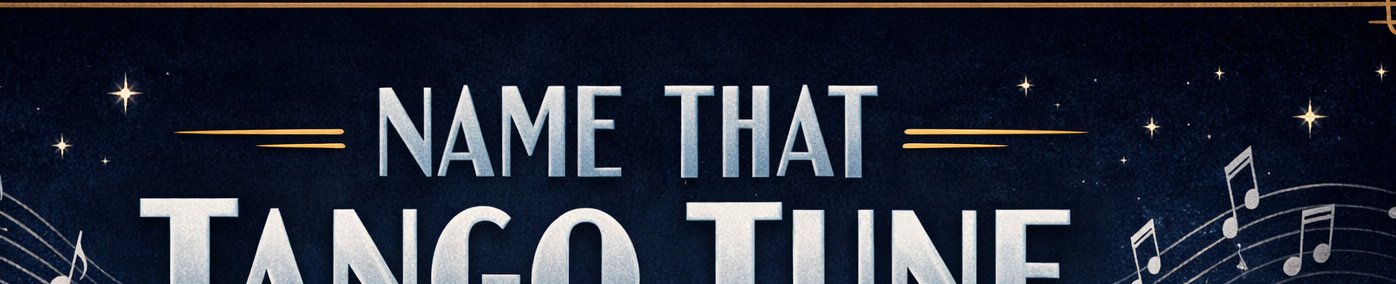
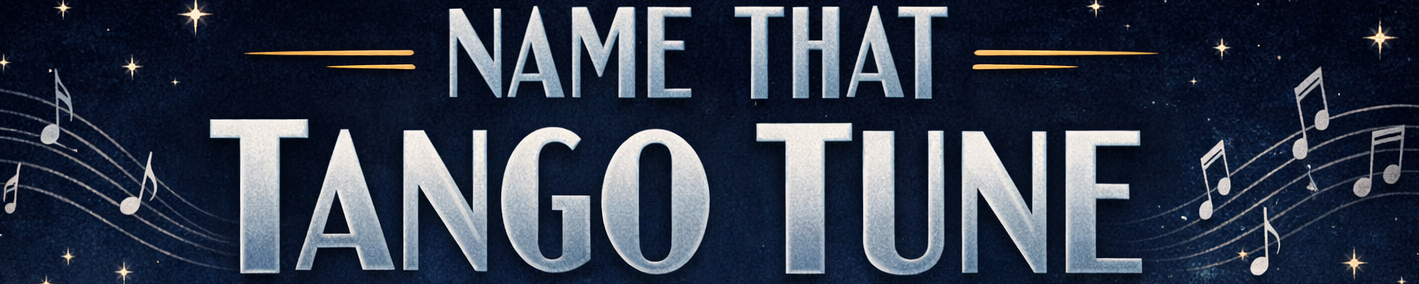
feat(welcome): Use Type1__NTTT with CSS auto-crop, update Type2__NTTT

diff --git a/tango/NTTT/src/app/games/gamehub/page.js b/tango/NTTT/src/app/games/gamehub/page.js
@@ -267,8 +267,8 @@ function WelcomePage({ onQuickStart, onViewStats }) {
         gap: 2,
       }}
     >
-      {/* Banner - Type2 style with gold underline */}
-      <PageBanner src="/Banner/Type2__NTTT.png" alt="Name That Tango Tune" contain fade />
+      {/* Banner - Type1 with CSS auto-crop (same as other pages) */}
+      <PageBanner src="/Banner/Type1__NTTT.png" alt="Name That Tango Tune" />
 
       {/* Visit Stats */}
       <Paper
